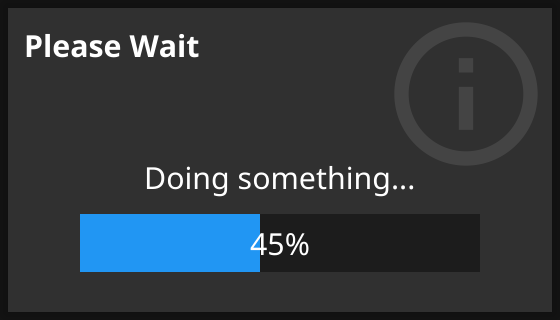
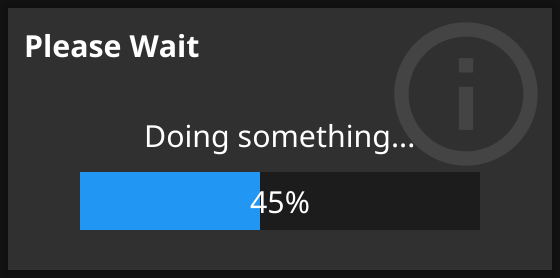
resepect dialog minsize

diff --git a/_gen/gendialogs.go b/_gen/gendialogs.go
@@ -71,8 +71,9 @@ func draw(scene func(fyne.Window), name string, w fyne.Window, c test.Windowless
 		w.Resize(fyne.NewSize(420, 320))
 		c.Overlays().Top().Resize(fyne.NewSize(412, 312))
 	} else {
-		w.Resize(fyne.NewSize(280, 160))
-		c.Overlays().Top().Resize(fyne.NewSize(272, 152))
+		min := c.Overlays().Top().MinSize()
+		w.Resize(min.Add(fyne.NewSize(theme.Padding()*2, theme.Padding()*2)))
+		c.Overlays().Top().Resize(min)
 	}
 
 	img := c.Capture()
